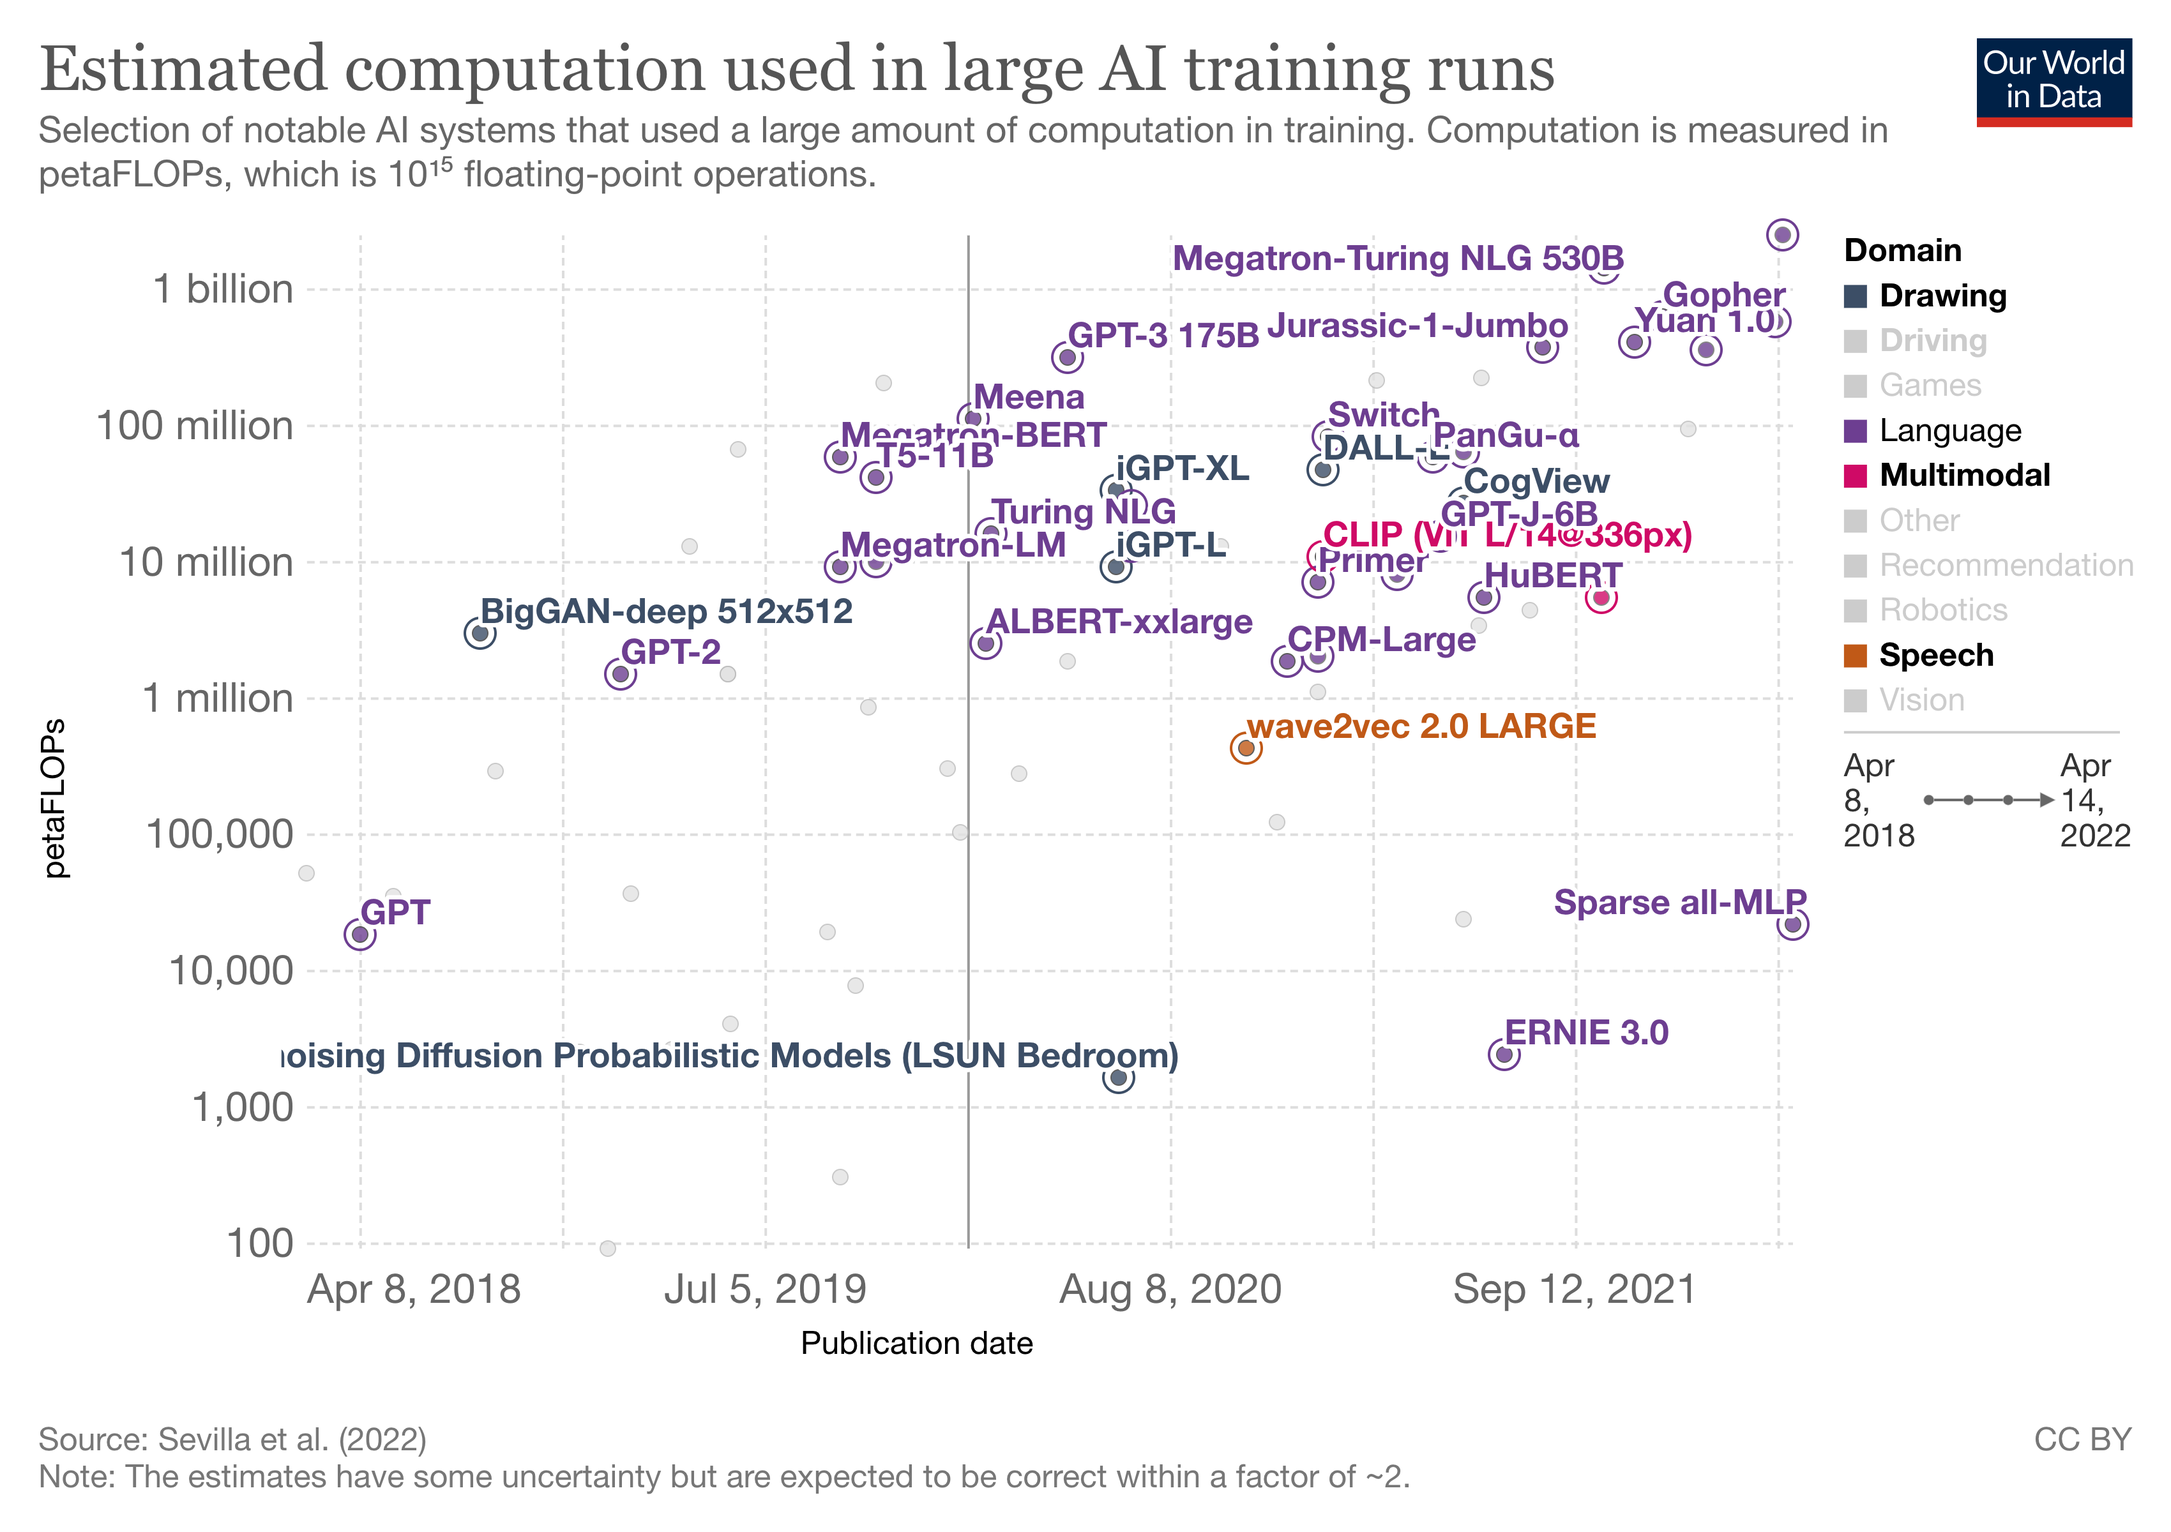
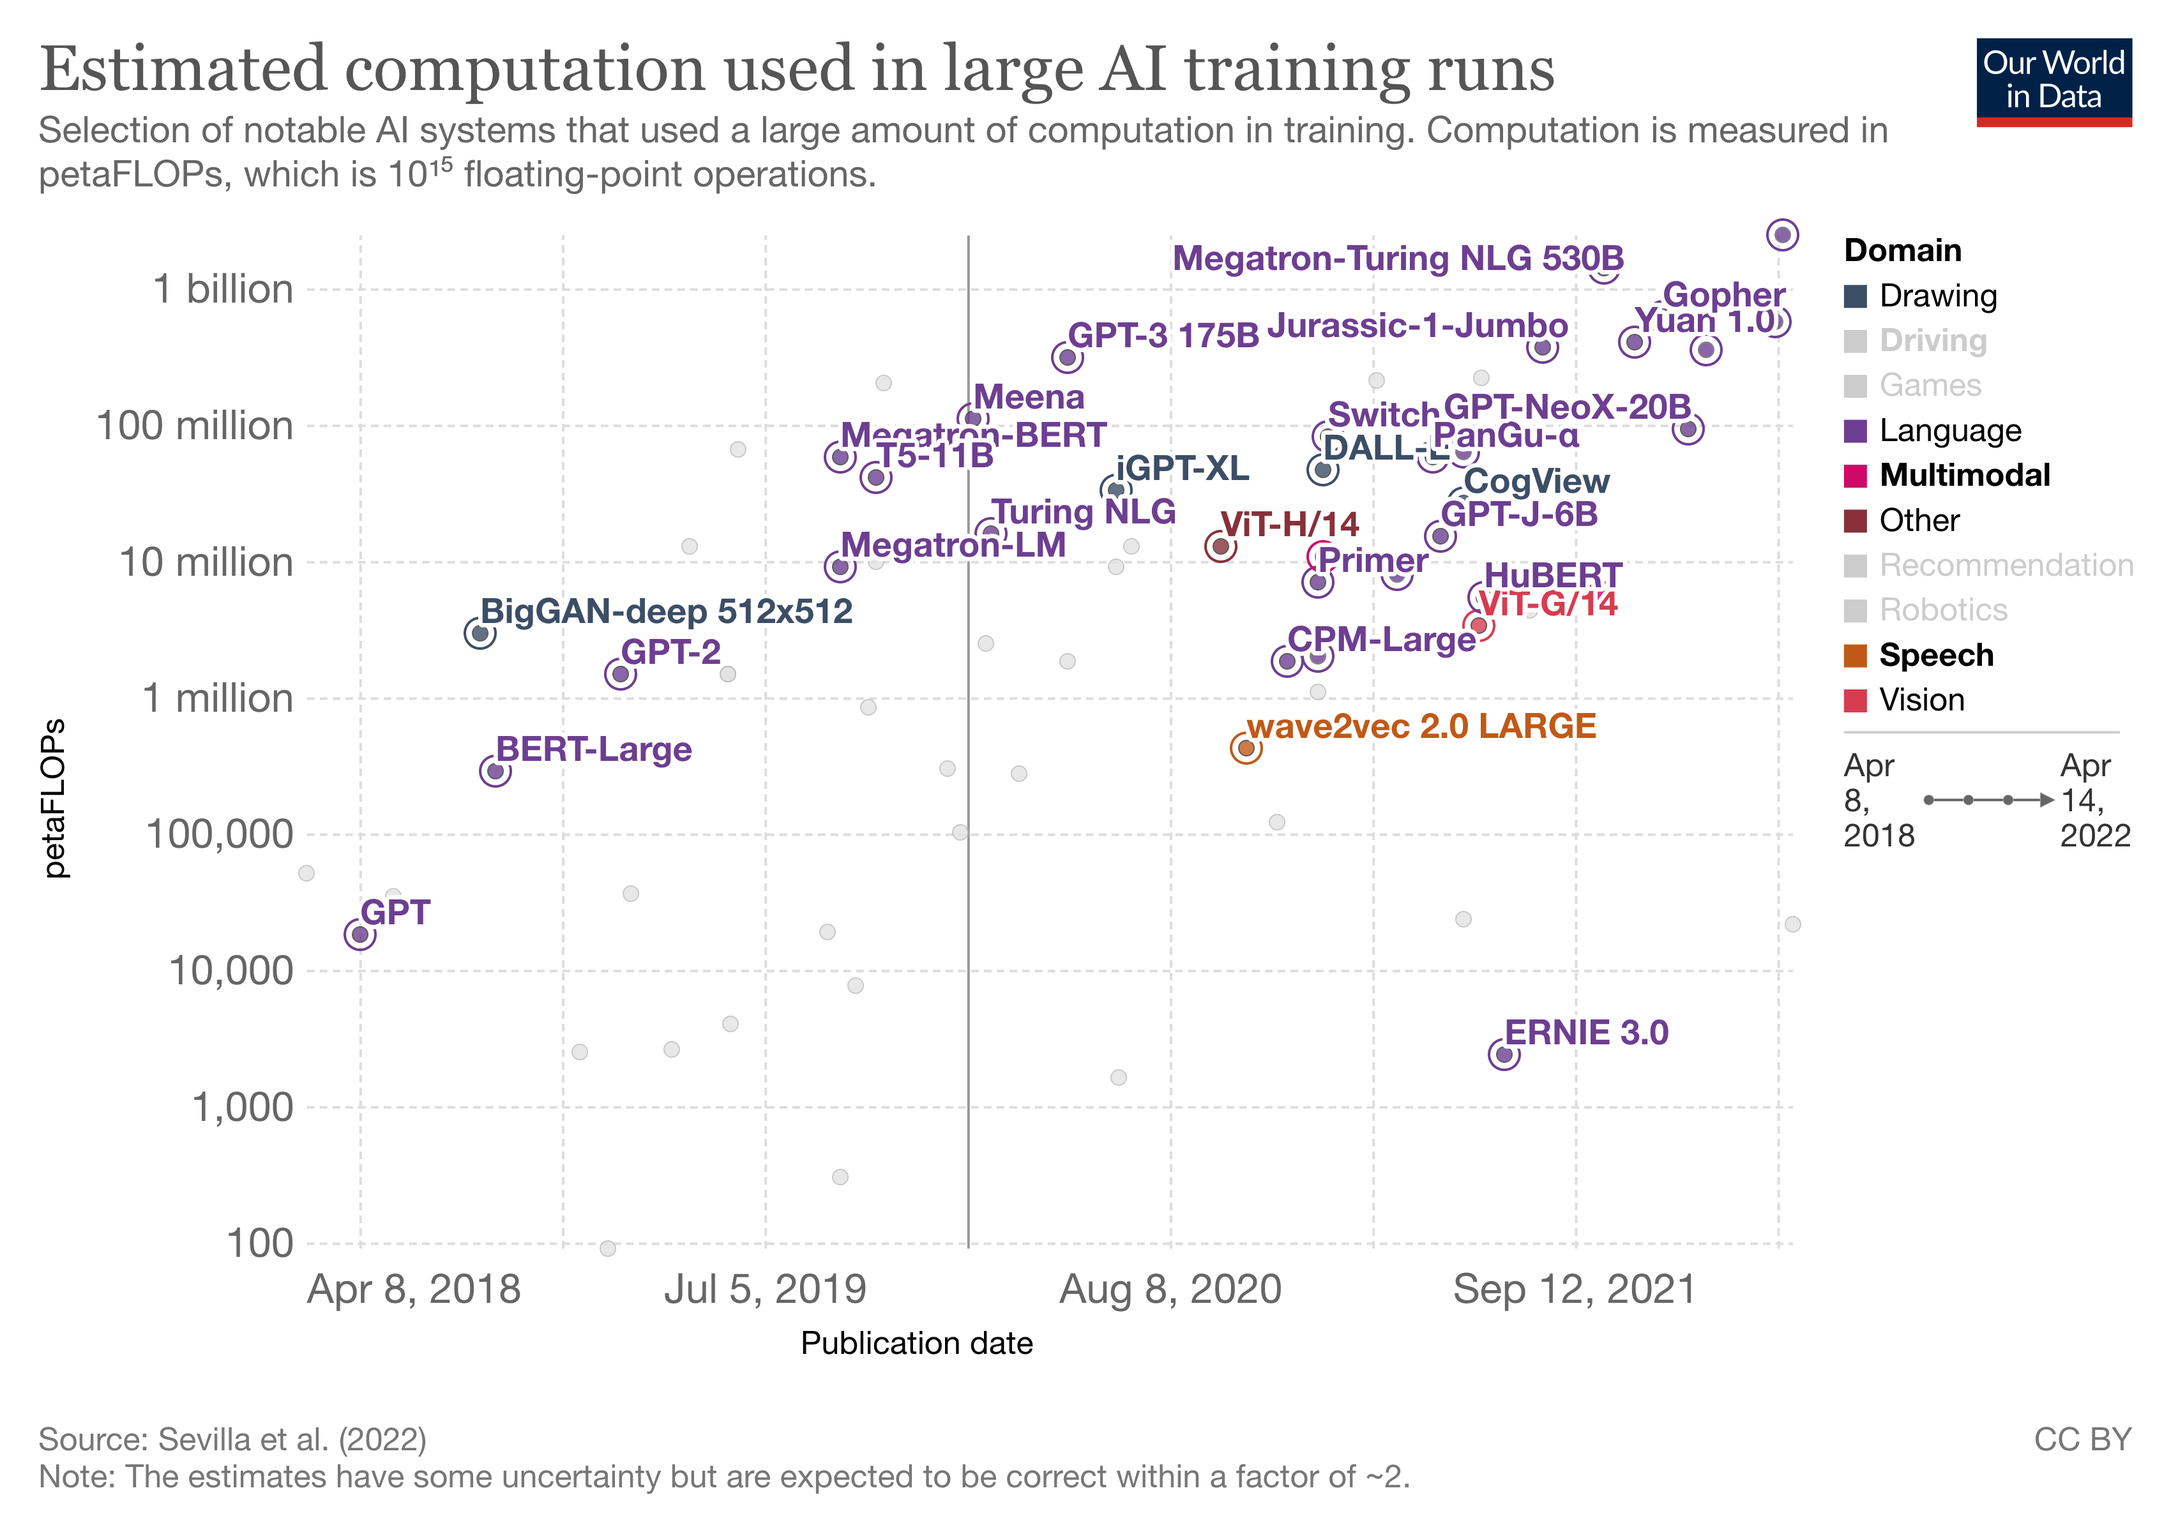
add vision model

diff --git a/README.md b/README.md
@@ -16,25 +16,35 @@ A collection of AWESOME things about BIG AI models.
 
 ## Models
 
+- **UL2** [[Google]]() May 2022  
+    Unifying Language Learning Paradigms [[Preprint]](https://arxiv.org/abs/2205.05131)
+
+    ```yaml
+    Field: Language
+    Params: 20B
+    Training Data: 800GB
+    Achitecture: En-De
+    ```
+
+- **Gato** [[DeepMind]](https://www.deepmind.com/publications/a-generalist-agent) May 2022  
+    A Generalist Agent [[Preprint]](https://arxiv.org/abs/2205.06175)
+
+    ```yaml
+    Field: Reinforcement Learning
+    Params: 1.2B
+    Training Data: (604 Tasks)
+    Objective: Supervised
+    ```
+
 - **PaLM** [[Google]](https://ai.googleblog.com/2022/04/pathways-language-model-palm-scaling-to.html) Apr 2022  
     PaLM: Scaling Language Modeling with Pathways [[Preprint]](https://arxiv.org/abs/2204.02311)
 
     ```yaml
     Field: Language
     Params: 550B
-    Training Data: (780B tokens)
+    Training Data: 3TB (780B tokens)
     Training Cost: $10M
     Training petaFLOPs: 2.5B
-    Architecture: De
-    ```
-
-- **GPT-NeoX** [[EleutherAI]](https://blog.eleuther.ai/announcing-20b/) June 2020 [</>](https://github.com/EleutherAI/gpt-neox)  
-    GPT-NeoX-20B: An Open-Source Autoregressive Language Model [[Preprint]](https://arxiv.org/abs/2204.06745)
-
-    ```yaml
-    Field: Language
-    Params: 20B
-    Training petaFLOPs: 93B
     Architecture: De
     ```
 
@@ -46,7 +56,16 @@ A collection of AWESOME things about BIG AI models.
     Params: 175B
     Training Data: 800GB
     Architecutre: De
-    Objective: LTR
+    ```
+
+- **GPT-NeoX** [[EleutherAI]](https://blog.eleuther.ai/announcing-20b/) Apr 2022 [</>](https://github.com/EleutherAI/gpt-neox)  
+    GPT-NeoX-20B: An Open-Source Autoregressive Language Model [[Preprint]](https://arxiv.org/abs/2204.06745)
+
+    ```yaml
+    Field: Language
+    Params: 20B
+    Training petaFLOPs: 93B
+    Architecture: De
     ```
 
 - **EVA 2.0** [[BAAI]](https://wudaoai.cn/model/detail/EVA) Mar 2022  
@@ -69,7 +88,27 @@ A collection of AWESOME things about BIG AI models.
     Architecture: De
     ```
 
-- **LaMDA** [[Google]](https://arxiv.org/abs/2201.08239) Jan 2022
+- **SEER** [[Meta]]() Feb 2022 [</>](https://github.com/facebookresearch/vissl)  
+    Vision Models Are More Robust And Fair When Pretrained On Uncurated Images Without Supervision [[Preprint]](https://arxiv.org/abs/2202.08360v2)
+
+    ```yaml
+    Field: Vision
+    Params: 10B
+    Training Data: (1B images)
+    Architecture: Convolution
+    Objective: SwAV
+    ```
+
+- **ST-MoE** [[Google]]() Feb 2022  
+    ST-MoE: Designing Stable and Transferable Sparse Expert Models [[Preprint]](https://arxiv.org/abs/2202.08906)
+
+    ```yaml
+    Field: Language
+    Params: 296B
+    Architecture: En-De, MoE
+    ```
+
+- **LaMDA** [[Google]](https://arxiv.org/abs/2201.08239) Jan 2022  
     LaMDA: Language Models for Dialog Applications [[Preprint]](https://arxiv.org/abs/2201.08239)
 
     ```yaml
@@ -86,7 +125,7 @@ A collection of AWESOME things about BIG AI models.
     ```yaml
     Field: Language
     Params: 1.2T
-    Architecture: MoE
+    Architecture: De, MoE
     ```
 
 - **Gopher** [[DeepMind]](https://www.deepmind.com/blog/language-modelling-at-scale-gopher-ethical-considerations-and-retrieval) Dec 2021  
@@ -98,6 +137,17 @@ A collection of AWESOME things about BIG AI models.
     Training Data: 1.3TB (300B tokens)
     Training petaFLOPs: 630M
     Architecture: De
+    ```
+
+- **SwinV2-G** [[]] Nov 2021 [</>](https://github.com/microsoft/Swin-Transformer)  
+    Swin Transformer V2: Scaling Up Capacity and Resolution [[CVPR'22]](https://arxiv.org/abs/2111.09883v2)
+
+    ```yaml
+    Field: Vision
+    Params: 3B
+    Training Data: 70M
+    Architecture: Transformer
+    Objective: Supervised
     ```
 
 - **Yuan 1.0** [[inspur]](https://air.inspur.com/home) Oct 2021  
@@ -120,7 +170,6 @@ A collection of AWESOME things about BIG AI models.
     Training Data: (339B tokens)
     Training petaFLOPs: 1.4B
     Architecture: De
-    Obective: LTR
     ```
 
 - **Plato-XL** [[Baidu]](http://research.baidu.com/Blog/index-view?id=163) Sept 2021  
@@ -153,6 +202,41 @@ A collection of AWESOME things about BIG AI models.
     Objective: MLM
     ```
 
+- **ViT-G/14** [[Google]]() June 2021  
+    Scaling Vision Transformers [[Preprint]](https://arxiv.org/abs/2106.04560)
+
+    ```yaml
+    Field: Vision
+    Params: 1.8B
+    Training Data: (300M images)
+    Training petaFLOPs: 3.4M
+    Architecture: Transformer
+    Objective: Supervised
+    ```
+
+- **CoAtNet** [[Google]](https://ai.googleblog.com/2021/09/toward-fast-and-accurate-neural.html) June 2021 [</>](https://github.com/chinhsuanwu/coatnet-pytorch)
+
+    ```yaml
+    Field: Vision
+    Params: 2.4B
+    Training Data: (300M images)
+    Architecture: Transformer, Convolution
+    Objective: Supervised
+    ```
+
+- **V-MoE** [[Google]](https://ai.googleblog.com/2022/01/scaling-vision-with-sparse-mixture-of.html) June 2021  
+    Scaling Vision with Sparse Mixture of Experts [[NeurIPS'21]](https://proceedings.neurips.cc//paper/2021/file/48237d9f2dea8c74c2a72126cf63d933-Paper.pdf)
+
+    ```yaml
+    Field: Vision
+    Params: 15B
+    Training Data: (300M images)
+    Training Time: 16.8k TPUv3 days
+    Training petaFLOPs: 33.9M
+    Architecture: Transformer, MoE
+    Objective: Supervised
+    ```
+
 - **CPM-2** [[BAAI]]() June 2021 [</>](https://github.com/TsinghuaAI/CPM)  
     CPM-2: Large-scale Cost-effective Pre-trained Language Models [[Preprint]](https://arxiv.org/abs/2106.10715)
 
@@ -164,6 +248,16 @@ A collection of AWESOME things about BIG AI models.
     Objective: MLM
     ```
 
+- **HuBERT** [[Meta]](https://ai.facebook.com/blog/hubert-self-supervised-representation-learning-for-speech-recognition-generation-and-compression/) June 2021 [</>](https://github.com/facebookresearch/fairseq/tree/main/examples/hubert)  
+    HuBERT: Self-Supervised Speech Representation Learning by Masked Prediction of Hidden Units [[Preprint]](https://arxiv.org/abs/2106.07447)
+
+    ```yaml
+    Field: Speech
+    Params: 1B
+    Training Data: (60k hours)
+    Objective: MLM
+    ```
+
 - **HyperClova** [[Naver]](https://www.navercorp.com/promotion/pressReleasesView/30546) May 2021  
     What Changes Can Large-scale Language Models Bring? Intensive Study on HyperCLOVA: Billions-scale Korean Generative Pretrained Transformers [[Preprint]](https://arxiv.org/abs/2109.04650v1)
 
@@ -172,6 +266,7 @@ A collection of AWESOME things about BIG AI models.
     Params: 82B
     Training Data: (562B tokens, Korean)
     Training petaFLOPs: 63B
+    Architecture: De
     ```
 
 - **ByT5** [[Google]]() May 2021 [</>](https://github.com/google-research/byt5)  
@@ -193,7 +288,6 @@ A collection of AWESOME things about BIG AI models.
     Training Data: 1.1TB (Chinese)
     Training petaFLOPs: 58M
     Architecture: De
-    Objective: LTR
     ```
 
 - **mT5** [[Google]]() Mar 2021 [</>](https://github.com/google-research/multilingual-t5)  
@@ -206,25 +300,7 @@ A collection of AWESOME things about BIG AI models.
     Architecture: En-De
     ```
 
-- **Blender** [[Meta]](https://ai.facebook.com/blog/blender-bot-2-an-open-source-chatbot-that-builds-long-term-memory-and-searches-the-internet/) Apr 2020 [</>](https://huggingface.co/facebook/blenderbot-90M?text=Hey+my+name+is+Thomas%21+How+are+you%3F)  
-    Recipes for building an open-domain chatbot [[Preprint]](https://arxiv.org/abs/2004.13637)
-
-    ```yaml
-    Field: Language (Dialogue)
-    Params: 9.4B
-    ```
-
-- **Meena** [[Google]](https://ai.googleblog.com/2020/01/towards-conversational-agent-that-can.html) Jan 2020  
-    Towards a Human-like Open-Domain Chatbot [[Preprint]](https://arxiv.org/abs/2001.09977)
-
-    ```yaml
-    Field: Language (Dialogue)
-    Params: 2.6B
-    Training Data: 341GB (40B words)
-    Training petaFLOPs: 110M
-    ```
-
-- **Switch Transformer**  [[Google]]() Jan 2021  
+- **Switch Transformer**  [[Google]]() Jan 2021 [</>](https://github.com/google-research/t5x)  
     Switch Transformers: Scaling to Trillion Parameter Models with Simple and Efficient Sparsity [[Preprint]](https://arxiv.org/abs/2101.03961)
 
     ```yaml
@@ -232,7 +308,7 @@ A collection of AWESOME things about BIG AI models.
     Params: 1.6T
     Training Data: 750GB
     Training petaFLOPs: 82M
-    Architecture: En-De
+    Architecture: En-De, MoE
     Objective: MLM
     ```
 
@@ -246,6 +322,29 @@ A collection of AWESOME things about BIG AI models.
     Training petaFLOPs: 1.8M
     Architecture: De
     Objective: LTR
+    ```
+
+- **ViT-H/14** [[Google]](https://ai.googleblog.com/2020/12/transformers-for-image-recognition-at.html) Oct 2020 [</>](https://github.com/google-research/vision_transformer)  
+    An Image is Worth 16x16 Words: Transformers for Image Recognition at Scale [[ICLR'20]](https://arxiv.org/abs/2010.11929)
+
+    ```yaml
+    Field: Vision
+    Params: 632M
+    Training Data: (300M images)
+    Training petaFLOPs: 13M
+    Architecture: Transformer
+    Objective: Supervised
+    ```
+
+- **wav2vec 2.0** [[Meta]](https://arxiv.org/abs/2006.11477) Oct 2020 [</>](https://github.com/facebookresearch/fairseq/tree/main/examples/wav2vec)  
+    wav2vec 2.0: A Framework for Self-Supervised Learning of Speech Representations [NeurIPS'20](https://arxiv.org/abs/2006.11477)
+
+    ```yaml
+    Field: Speech
+    Params: 317M
+    Training Data: (50k hours)
+    Training petaFLOPs: 430M
+    Objective: MLM
     ```
 
 - **GPT-3** [[OpenAI]](https://openai.com/api/) May 2020  
@@ -262,6 +361,14 @@ A collection of AWESOME things about BIG AI models.
     Obective: LTR
     ```
 
+- **Blender** [[Meta]](https://ai.facebook.com/blog/blender-bot-2-an-open-source-chatbot-that-builds-long-term-memory-and-searches-the-internet/) Apr 2020 [</>](https://huggingface.co/facebook/blenderbot-90M?text=Hey+my+name+is+Thomas%21+How+are+you%3F)  
+    Recipes for building an open-domain chatbot [[Preprint]](https://arxiv.org/abs/2004.13637)
+
+    ```yaml
+    Field: Language (Dialogue)
+    Params: 9.4B
+    ```
+
 - **T-NLG** [[Microsoft]](https://www.microsoft.com/en-us/research/blog/turing-nlg-a-17-billion-parameter-language-model-by-microsoft/) Feb 2020
 
     ```yaml
@@ -270,6 +377,16 @@ A collection of AWESOME things about BIG AI models.
     Training petaFLOPs: 16M
     Architecture: De
     Obective: LTR
+    ```
+
+- **Meena** [[Google]](https://ai.googleblog.com/2020/01/towards-conversational-agent-that-can.html) Jan 2020  
+    Towards a Human-like Open-Domain Chatbot [[Preprint]](https://arxiv.org/abs/2001.09977)
+
+    ```yaml
+    Field: Language (Dialogue)
+    Params: 2.6B
+    Training Data: 341GB (40B words)
+    Training petaFLOPs: 110M
     ```
 
 - **AlphaFold 2** [[DeepMind]](https://www.deepmind.com/research/highlighted-research/alphafold) [</>](https://github.com/deepmind/alphafold)  
@@ -297,7 +414,7 @@ A collection of AWESOME things about BIG AI models.
     ```yaml
     Field: Language
     Params: 11B
-    Training Data: 800 GB
+    Training Data: 800GB
     Training Cost: $1.5M
     Training petaFLOPs: 41M
     Architecture: En-De
@@ -311,9 +428,33 @@ A collection of AWESOME things about BIG AI models.
     Field: Language
     Params: 8.3B
     Training Data: 174 GB
+    Training petaFLOPs: 9.1M
+    Architecture: De
+    Obective: LTR
+    ```
+
+- **Megatron-BERT** [[Nvidia]]() Sept 2019 [</>](https://github.com/NVIDIA/Megatron-LM)  
+    Megatron-LM: Training Multi-Billion Parameter Language Models Using Model Parallelism [[Preprint]](https://arxiv.org/abs/1909.08053)
+
+    ```yaml
+    Field: Language
+    Params: 3.9B
+    Training Data: 174 GB
     Training petaFLOPs: 57M
-    Architecture: En-De; En
-    Obective: LTR; MLM
+    Architecture: En
+    Obective: MLM
+    ```
+
+- **RoBERTa** [[Meta]](https://ai.facebook.com/blog/roberta-an-optimized-method-for-pretraining-self-supervised-nlp-systems/) July 2019 [</>](https://github.com/facebookresearch/fairseq)  
+    RoBERTa: A Robustly Optimized BERT Pretraining Approach [[Preprint]](https://arxiv.org/abs/1907.11692)  
+
+    ```yaml
+    Field: Language
+    Params: 354M
+    Training Data: 160GB
+    Training Time: 1024 V100 GPU days
+    Architecture: En
+    Objective: MLM
     ```
 
 - **XLNet** [[Google]]() June 2019 [</>](https://github.com/zihangdai/xlnet)  
@@ -327,18 +468,6 @@ A collection of AWESOME things about BIG AI models.
     Training Cost: $245k
     Architecture: En
     Objective: PLM
-    ```
-
-- **RoBERTa** [[Meta]](https://ai.facebook.com/blog/roberta-an-optimized-method-for-pretraining-self-supervised-nlp-systems/) July 2019 [</>](https://github.com/facebookresearch/fairseq)  
-    RoBERTa: A Robustly Optimized BERT Pretraining Approach [[Preprint]](https://arxiv.org/abs/1907.11692)  
-
-    ```yaml
-    Field: Language
-    Params: 354M
-    Training Data: 160GB
-    Training Time: 1024 V100 GPU days
-    Architecture: En
-    Objective: MLM
     ```
 
 - **GPT-2** [[OpenAI]](https://openai.com/blog/better-language-models/) Feb 2019 [</>](https://github.com/openai/gpt-2)  
@@ -390,6 +519,8 @@ A collection of AWESOME things about BIG AI models.
     Colossal-AI: A Unified Deep Learning System For Large-Scale Parallel Training [[Preprint]](https://arxiv.org/abs/2110.14883)
 - **OneFlow*** [[OneFlow]](https://docs.oneflow.org/master/index.html) July 2020 [</>](https://github.com/OneFlow-Inc/oneflow)  
     OneFlow: Redesign the Distributed Deep Learning Framework from Scratch [[Preprint]](https://arxiv.org/abs/2110.15032)
+- **GShard** [[Google]](https://arxiv.org/abs/2006.16668) June 2020  
+    GShard: Scaling Giant Models with Conditional Computation and Automatic Sharding [[Preprint]](https://arxiv.org/abs/2006.16668)
 - **MindSpore*** [[Huawei]](https://e.huawei.com/en/products/cloud-computing-dc/atlas/mindspore) Mar 2020 [</>](https://github.com/mindspore-ai/mindspore)
 - **DeepSpeed** [[Microsoft]](https://www.microsoft.com/en-us/research/project/deepspeed/) Oct 2019 [</>](https://github.com/microsoft/DeepSpeed)  
     ZeRO: Memory Optimizations Toward Training Trillion Parameter Models [[SC'20]](https://arxiv.org/abs/1910.02054)
@@ -406,16 +537,18 @@ A collection of AWESOME things about BIG AI models.
 
 ## Others
 
+- CoCa
+- SLAM
+- 紫东太初大模型
 - WuDao
 - BriVL
 - DALL·E
 - CLIP
 - CogView
+- ALIGN
 - Imagen
 - DALL·E 2
-- Gato
 - WuDao 2.0
-- 快手1.9万亿参数推荐精排模型
 - 阿里达摩院M6
 - **BaGuaLu** [BAAI, Alibaba] Apr 2022  
     BaGuaLu: targeting brain scale pretrained models with over 37 million cores [PPoPP'22](https://keg.cs.tsinghua.edu.cn/jietang/publications/PPOPP22-Ma%20et%20al.-BaGuaLu%20Targeting%20Brain%20Scale%20Pretrained%20Models%20w.pdf)
